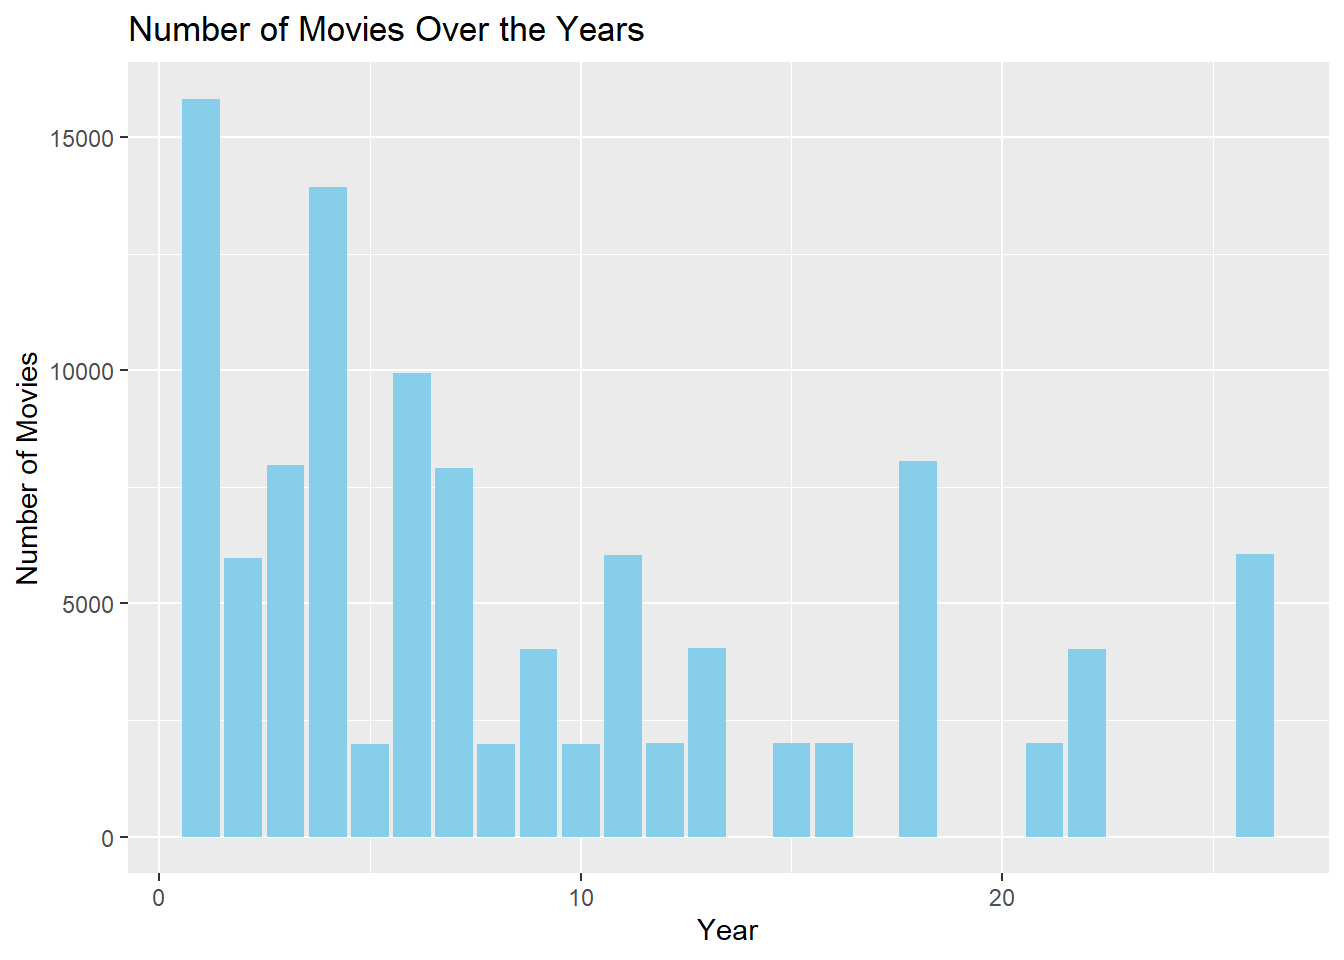
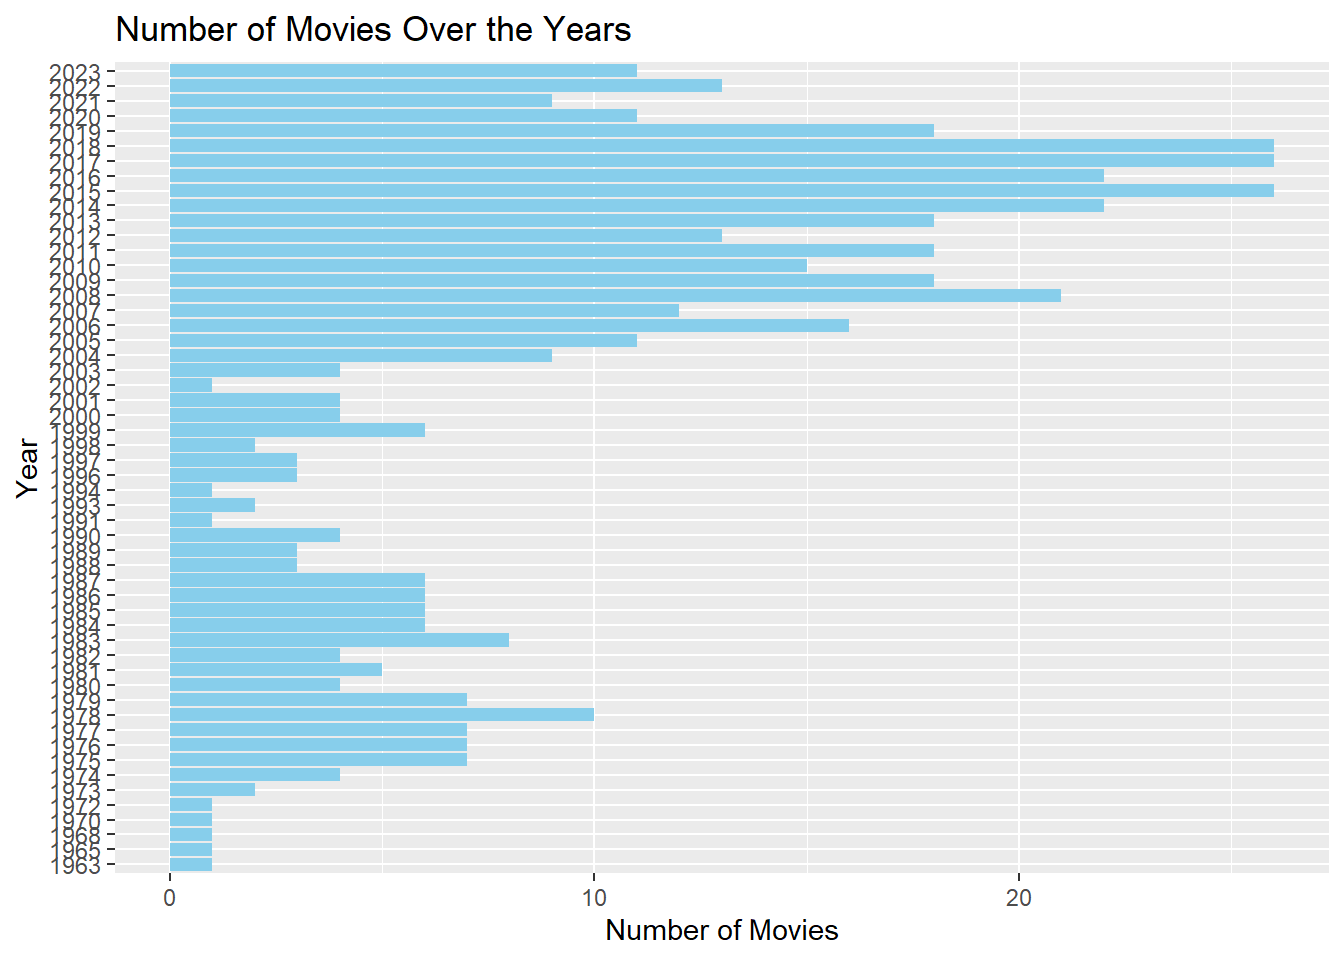
ass

diff --git a/docs/assignments/assignment-2.html b/docs/assignments/assignment-2.html
@@ -331,7 +331,7 @@ pre > code.sourceCode > span > a:first-child::before { text-decoration: underlin
 <span id="cb2-65"><a href="#cb2-65" aria-hidden="true" tabindex="-1"></a>minutes<span class="ot">&lt;-</span><span class="fu">ifelse</span>(<span class="fu">grepl</span>(<span class="st">"m"</span>,minutes),<span class="fu">gsub</span>(<span class="st">"m"</span>, <span class="st">""</span>, minutes),minutes)</span>
 <span id="cb2-66"><a href="#cb2-66" aria-hidden="true" tabindex="-1"></a>minutes <span class="ot">&lt;-</span> <span class="fu">as.numeric</span>(minutes)</span>
 <span id="cb2-67"><a href="#cb2-67" aria-hidden="true" tabindex="-1"></a></span>
-<span id="cb2-68"><a href="#cb2-68" aria-hidden="true" tabindex="-1"></a>duration_min <span class="ot">&lt;-</span><span class="fu">ifelse</span>(<span class="fu">is.na</span>(hours),minutes,<span class="dv">60</span><span class="sc">*</span>hours<span class="sc">+</span>minutes)</span>
+<span id="cb2-68"><a href="#cb2-68" aria-hidden="true" tabindex="-1"></a>duration_min <span class="ot">&lt;-</span><span class="dv">60</span><span class="sc">*</span>hours<span class="sc">+</span>minutes</span>
 <span id="cb2-69"><a href="#cb2-69" aria-hidden="true" tabindex="-1"></a></span>
 <span id="cb2-70"><a href="#cb2-70" aria-hidden="true" tabindex="-1"></a>imdb_data_frame <span class="ot">&lt;-</span> <span class="fu">data.frame</span>(<span class="at">Title=</span>titles,<span class="at">Year=</span>year,<span class="at">Duration=</span>durations, <span class="at">Rating=</span>rating, <span class="at">Votes=</span>votes, <span class="at">DurationMin =</span> duration_min)</span></code><button title="Copy to Clipboard" class="code-copy-button"><i class="bi"></i></button></pre></div>
 </div>
@@ -347,7 +347,7 @@ pre > code.sourceCode > span > a:first-child::before { text-decoration: underlin
 <span id="cb3-3"><a href="#cb3-3" aria-hidden="true" tabindex="-1"></a>imdb_data_frame[top_5[<span class="dv">1</span><span class="sc">:</span><span class="dv">5</span>],]</span></code><button title="Copy to Clipboard" class="code-copy-button"><i class="bi"></i></button></pre></div>
 <div class="cell-output cell-output-stdout">
 <pre><code>                           Title Year Duration Rating Votes DurationMin
-457               Hababam Sinifi 1975   1h 27m    9.2 42512          87
+457               Hababam Sinifi 1975   1h 27m    9.2 42513          87
 202       CM101MMXI Fundamentals 2013   2h 19m    9.1 46995         139
 446                   Tosun Pasa 1976   1h 30m    8.9 24327          90
 453 Hababam Sinifi Sinifta Kaldi 1975   1h 35m    8.9 24370          95
@@ -358,10 +358,10 @@ pre > code.sourceCode > span > a:first-child::before { text-decoration: underlin
 <span id="cb5-3"><a href="#cb5-3" aria-hidden="true" tabindex="-1"></a>imdb_data_frame[bottom_5[<span class="dv">1</span><span class="sc">:</span><span class="dv">5</span>],]   </span></code><button title="Copy to Clipboard" class="code-copy-button"><i class="bi"></i></button></pre></div>
 <div class="cell-output cell-output-stdout">
 <pre><code>                             Title Year Duration Rating Votes DurationMin
-100 Cumali Ceber: Allah Seni Alsin 2017   1h 40m    1.0 39266         100
-110                           Reis 2017   1h 48m    1.0 73972         108
+100 Cumali Ceber: Allah Seni Alsin 2017   1h 40m    1.0 39267         100
+110                           Reis 2017   1h 48m    1.0 73973         108
 21                           Müjde 2022      48m    1.2  9920          48
-28               15/07 Safak Vakti 2021   1h 35m    1.2 20606          95
+28               15/07 Safak Vakti 2021   1h 35m    1.2 20607          95
 75                  Cumali Ceber 2 2018   1h 40m    1.2 10228         100</code></pre>
 </div>
 </div>
@@ -391,7 +391,7 @@ pre > code.sourceCode > span > a:first-child::before { text-decoration: underlin
 <span id="cb9-4"><a href="#cb9-4" aria-hidden="true" tabindex="-1"></a></span>
 <span id="cb9-5"><a href="#cb9-5" aria-hidden="true" tabindex="-1"></a><span class="fu">ggplot</span>(yearly_avg_ratings, <span class="fu">aes</span>(<span class="at">x =</span> avg_rating, <span class="at">y =</span> Year)) <span class="sc">+</span></span>
 <span id="cb9-6"><a href="#cb9-6" aria-hidden="true" tabindex="-1"></a>  <span class="fu">geom_point</span>() <span class="sc">+</span></span>
-<span id="cb9-7"><a href="#cb9-7" aria-hidden="true" tabindex="-1"></a>  <span class="fu">labs</span>(<span class="at">title =</span> <span class="st">"Yearly Average Ratings of Turkish Movies"</span>, <span class="at">x =</span> <span class="st">"Year"</span>, <span class="at">y =</span> <span class="st">"Average Rating"</span>)</span></code><button title="Copy to Clipboard" class="code-copy-button"><i class="bi"></i></button></pre></div>
+<span id="cb9-7"><a href="#cb9-7" aria-hidden="true" tabindex="-1"></a>  <span class="fu">labs</span>(<span class="at">title =</span> <span class="st">"Yearly Average Ratings of Turkish Movies"</span>, <span class="at">x =</span> <span class="st">"Average Rating"</span>, <span class="at">y =</span> <span class="st">"Year"</span>)</span></code><button title="Copy to Clipboard" class="code-copy-button"><i class="bi"></i></button></pre></div>
 <div class="cell-output-display">
 <p><img src="assignment-2_files/figure-html/unnamed-chunk-5-1.png" class="img-fluid" width="672"></p>
 </div>
@@ -400,9 +400,9 @@ pre > code.sourceCode > span > a:first-child::before { text-decoration: underlin
 <span id="cb10-3"><a href="#cb10-3" aria-hidden="true" tabindex="-1"></a>  <span class="fu">summarise</span>(<span class="at">count =</span> <span class="fu">n</span>())</span>
 <span id="cb10-4"><a href="#cb10-4" aria-hidden="true" tabindex="-1"></a></span>
 <span id="cb10-5"><a href="#cb10-5" aria-hidden="true" tabindex="-1"></a></span>
-<span id="cb10-6"><a href="#cb10-6" aria-hidden="true" tabindex="-1"></a><span class="fu">ggplot</span>(movie_counts, <span class="fu">aes</span>(<span class="at">x =</span> count, <span class="at">y =</span> Year)) <span class="sc">+</span></span>
+<span id="cb10-6"><a href="#cb10-6" aria-hidden="true" tabindex="-1"></a><span class="fu">ggplot</span>(movie_counts, <span class="fu">aes</span>(<span class="at">x =</span> count, <span class="at">y =</span> <span class="fu">factor</span>(Year))) <span class="sc">+</span></span>
 <span id="cb10-7"><a href="#cb10-7" aria-hidden="true" tabindex="-1"></a>  <span class="fu">geom_bar</span>(<span class="at">stat =</span> <span class="st">"identity"</span>, <span class="at">fill =</span> <span class="st">"skyblue"</span>) <span class="sc">+</span></span>
-<span id="cb10-8"><a href="#cb10-8" aria-hidden="true" tabindex="-1"></a>  <span class="fu">labs</span>(<span class="at">title =</span> <span class="st">"Number of Movies Over the Years"</span>, <span class="at">x =</span> <span class="st">"Year"</span>, <span class="at">y =</span> <span class="st">"Number of Movies"</span>)</span></code><button title="Copy to Clipboard" class="code-copy-button"><i class="bi"></i></button></pre></div>
+<span id="cb10-8"><a href="#cb10-8" aria-hidden="true" tabindex="-1"></a>  <span class="fu">labs</span>(<span class="at">title =</span> <span class="st">"Number of Movies Over the Years"</span>, <span class="at">x =</span> <span class="st">"Number of Movies"</span>, <span class="at">y =</span> <span class="st">"Year"</span>)</span></code><button title="Copy to Clipboard" class="code-copy-button"><i class="bi"></i></button></pre></div>
 <div class="cell-output-display">
 <p><img src="assignment-2_files/figure-html/unnamed-chunk-5-2.png" class="img-fluid" width="672"></p>
 </div>
@@ -414,7 +414,7 @@ pre > code.sourceCode > span > a:first-child::before { text-decoration: underlin
 <div class="sourceCode cell-code" id="cb11"><pre class="sourceCode r code-with-copy"><code class="sourceCode r"><span id="cb11-1"><a href="#cb11-1" aria-hidden="true" tabindex="-1"></a>correlation_1 <span class="ot">&lt;-</span> <span class="fu">cor</span>(imdb_data_frame<span class="sc">$</span>Votes, imdb_data_frame<span class="sc">$</span>Rating)</span>
 <span id="cb11-2"><a href="#cb11-2" aria-hidden="true" tabindex="-1"></a>correlation_1</span></code><button title="Copy to Clipboard" class="code-copy-button"><i class="bi"></i></button></pre></div>
 <div class="cell-output cell-output-stdout">
-<pre><code>[1] 0.1307539</code></pre>
+<pre><code>[1] 0.1307548</code></pre>
 </div>
 </div>
 <p>As can be seen, the correlation is very close to 0. There is no linear relationship between two variables.</p>
@@ -477,16 +477,16 @@ pre > code.sourceCode > span > a:first-child::before { text-decoration: underlin
 <span id="cb17-4"><a href="#cb17-4" aria-hidden="true" tabindex="-1"></a>merged_data</span></code><button title="Copy to Clipboard" class="code-copy-button"><i class="bi"></i></button></pre></div>
 <div class="cell-output cell-output-stdout">
 <pre><code>                       Title Year Duration Rating Votes DurationMin
-1   Yedinci Kogustaki Mucize 2019   2h 12m    8.2 54155         132
+1   Yedinci Kogustaki Mucize 2019   2h 12m    8.2 54156         132
 2                 Kis Uykusu 2014   3h 16m    8.0 54633         196
-3      Nefes: Vatan Sagolsun 2009    2h 8m    8.0 35018         128
+3      Nefes: Vatan Sagolsun 2009    2h 8m    8.0 35019         128
 4  Ayla: The Daughter of War 2017    2h 5m    8.3 42990         125
-5             Babam ve Oglum 2005   1h 48m    8.2 91024         108
-6                Ahlat Agaci 2018    3h 8m    8.0 27002         188
-7    Bir Zamanlar Anadolu'da 2011   2h 37m    7.8 49352         157
-8                     Eskiya 1996    2h 8m    8.1 71698         128
+5             Babam ve Oglum 2005   1h 48m    8.2 91026         108
+6                Ahlat Agaci 2018    3h 8m    8.0 27003         188
+7    Bir Zamanlar Anadolu'da 2011   2h 37m    7.8 49354         157
+8                     Eskiya 1996    2h 8m    8.1 71699         128
 9                   G.O.R.A. 2004    2h 7m    8.0 66029         127
-10                 Vizontele 2001   1h 50m    8.0 38399         110
+10                 Vizontele 2001   1h 50m    8.0 38400         110
 11  Her Sey Çok Güzel Olacak 1998   1h 47m    8.1 27119         107</code></pre>
 </div>
 </div>
@@ -500,7 +500,7 @@ pre > code.sourceCode > span > a:first-child::before { text-decoration: underlin
 <span id="cb19-4"><a href="#cb19-4" aria-hidden="true" tabindex="-1"></a>top_11</span></code><button title="Copy to Clipboard" class="code-copy-button"><i class="bi"></i></button></pre></div>
 <div class="cell-output cell-output-stdout">
 <pre><code>                           Title Year Duration Rating Votes DurationMin
-457               Hababam Sinifi 1975   1h 27m    9.2 42512          87
+457               Hababam Sinifi 1975   1h 27m    9.2 42513          87
 202       CM101MMXI Fundamentals 2013   2h 19m    9.1 46995         139
 446                   Tosun Pasa 1976   1h 30m    8.9 24327          90
 453 Hababam Sinifi Sinifta Kaldi 1975   1h 35m    8.9 24370          95
